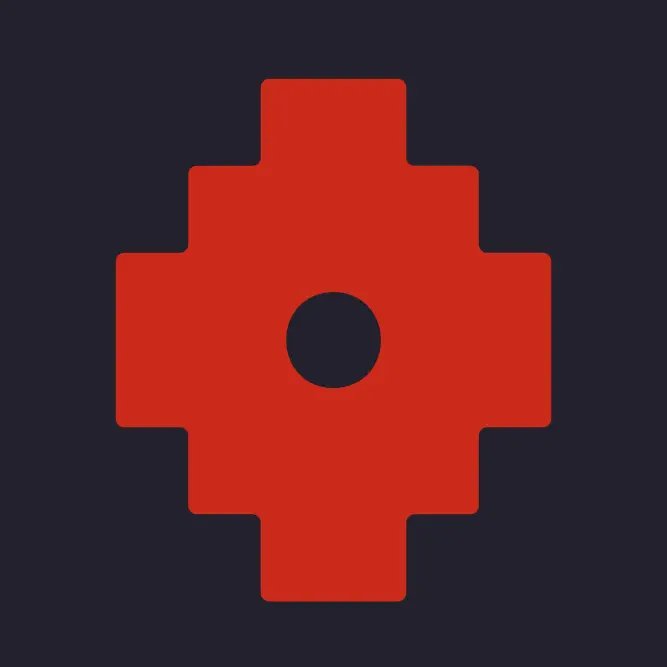
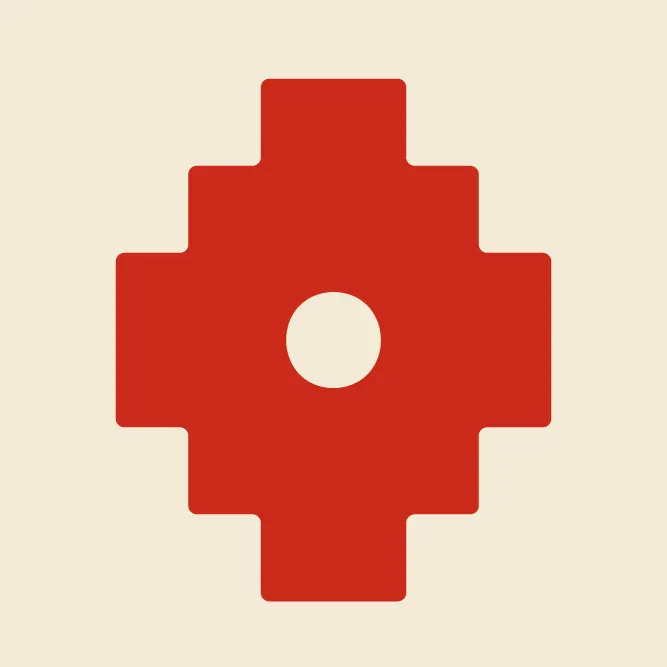
update site

diff --git a/lib/identities-projects.ts b/lib/identities-projects.ts
@@ -41,6 +41,7 @@ export const identityProjects: IdentityProject[] = [
     description:
       "A visual identity for a plant medicine retreat in Ecuador, built around the geometry of the Andean Chakana cross.\n\nThe system combines restrained typography, earthy tones and modular graphic structures to position the project away from the visual clichés of contemporary spiritual branding.\n\nDesigned across identity, website and communication systems.",
     brandColor: "#24212d",
+    backgroundGradient: "linear-gradient(to top, #141319, #24212d)",
     gradient: "linear-gradient(160deg, #1a1a1a 20%, #e63946 95%)",
     thumbGradient: "linear-gradient(160deg, #1a1a1a 30%, #c92a38 100%)",
     iconSrc: "/Identities projects/01 - Proyecto Indigeno/Icon-1.webp",
@@ -255,6 +256,46 @@ export const identityProjects: IdentityProject[] = [
       { id: "p6-d", x: 82, y: 62, size: 96, src: "/Identities projects/06 - Vinegret/blast-1.webp", rotation: -15 },
       { id: "p6-e", x: 38, y: 84, size: 54, src: "/Identities projects/06 - Vinegret/blast-2.webp", rotation: 12 },
       { id: "p6-f", x: 58, y: 6, size: 70, src: "/Identities projects/06 - Vinegret/blast-3.webp", rotation: -6 },
+    ],
+  },
+  {
+    id: "p7",
+    label: "Space",
+    name: "Dreidel Drinkery",
+    date: "2021-2024",
+    country: "Russia",
+    scope: "Visual identity, art direction, marketing, operational design",
+    description:
+      "A visual identity for a Jewish bar in Moscow built around the tension between sacred and commercial, historic and contemporary.\n\nFrom a logo that simultaneously resembles a stained-glass window and a modern app icon to labels referencing niche art movements, the system explores contrasts between cultural memory and present-day nightlife aesthetics.",
+    brandColor: "#8ec8dd",
+    backgroundGradient: "linear-gradient(to top, #8ec8dd, #f5f5f0)",
+    gradient: "linear-gradient(to top, #8ec8dd, #f5f5f0)",
+    thumbGradient: "linear-gradient(150deg, #1a1a1a 35%, #8ec8dd 100%)",
+    iconSrc: "/Identities projects/07 - zionist/Icon-7.webp",
+    blastImages: [
+      "/Identities projects/07 - zionist/blast - 01.webp",
+      "/Identities projects/07 - zionist/blast - 02.webp",
+      "/Identities projects/07 - zionist/blast - 03.webp",
+      "/Identities projects/07 - zionist/blast - 04.webp",
+      "/Identities projects/07 - zionist/blast - 05.webp",
+    ],
+    frameImages: [
+      "/Identities projects/07 - zionist/Frame - 01.webp",
+      "/Identities projects/07 - zionist/Frame - 02.webp",
+      "/Identities projects/07 - zionist/Frame - 03.webp",
+      "/Identities projects/07 - zionist/frame - 04.webp",
+      "/Identities projects/07 - zionist/frame - 05.webp",
+      "/Identities projects/07 - zionist/frame - 06.webp",
+      "/Identities projects/07 - zionist/frame - 07.webp",
+      "/Identities projects/07 - zionist/frame -08.webp",
+      "/Identities projects/07 - zionist/frame - 09.webp",
+    ],
+    particles: [
+      { id: "p7-a", x: 8, y: 16, size: 88, src: "/Identities projects/07 - zionist/blast - 01.webp", rotation: -7 },
+      { id: "p7-b", x: 84, y: 22, size: 72, src: "/Identities projects/07 - zionist/blast - 02.webp", rotation: 11 },
+      { id: "p7-c", x: 12, y: 68, size: 64, src: "/Identities projects/07 - zionist/blast - 03.webp", rotation: 8 },
+      { id: "p7-d", x: 90, y: 62, size: 98, src: "/Identities projects/07 - zionist/blast - 04.webp", rotation: -12 },
+      { id: "p7-e", x: 45, y: 82, size: 56, src: "/Identities projects/07 - zionist/blast - 05.webp", rotation: 15 },
     ],
   },
 ];

diff --git a/components/websites-page.tsx b/components/websites-page.tsx
@@ -7,12 +7,26 @@ import {
   websitesDescription,
   websitesVideoSrc,
 } from "@/lib/websites-content";
+import { useState, useRef, useEffect } from "react";
 
 const TEXT_DELAY = 0.55;
 const FRAME_HEIGHT = "calc((100dvh - 49px) * 0.6)";
 
 export function WebsitesPage() {
   const { navigateWithWipe } = useWipe();
+  const [isVideoLoaded, setIsVideoLoaded] = useState(false);
+  const videoRef = useRef<HTMLVideoElement>(null);
+
+  useEffect(() => {
+    const video = videoRef.current;
+    if (video) {
+      const handleLoadedData = () => {
+        setIsVideoLoaded(true);
+      };
+      video.addEventListener("loadeddata", handleLoadedData);
+      return () => video.removeEventListener("loadeddata", handleLoadedData);
+    }
+  }, []);
 
   return (
     <SiteChrome>
@@ -25,13 +39,19 @@ export function WebsitesPage() {
               className="relative z-20 mx-auto aspect-[16/9] w-auto max-w-[92vw] shrink-0 overflow-hidden border border-white/85 bg-[#0a0a0a]/40 md:col-start-2 md:mx-0"
               style={{ height: FRAME_HEIGHT }}
             >
+              {!isVideoLoaded && (
+                <div className="absolute inset-0 animate-pulse bg-gradient-to-br from-[#0a0a0a]/60 via-[#1a1a1a]/50 to-[#0a0a0a]/60 opacity-100 transition-opacity duration-700 ease-out" />
+              )}
               <video
+                ref={videoRef}
                 src={websitesVideoSrc}
                 autoPlay
                 muted
                 loop
                 playsInline
-                className="absolute inset-0 h-full w-full object-cover object-top"
+                className={`absolute inset-0 h-full w-full object-cover object-top transition-opacity duration-700 ease-out ${
+                  isVideoLoaded ? "opacity-100" : "opacity-0"
+                }`}
               />
             </div>
 

diff --git a/lib/other-projects.ts b/lib/other-projects.ts
@@ -98,6 +98,7 @@ export const otherProjects: OtherProject[] = [
       "/Other/7 - labels/01-04.webp",
       "/Other/7 - labels/01-05.webp",
       "/Other/7 - labels/01-06.webp",
+      "/Other/7 - labels/01-07.webp",
     ],
     iconSrc: "/Other/7 - labels/01-01.webp",
     thumbGradient: "linear-gradient(170deg, #141414 35%, #9d4edd 90%)",